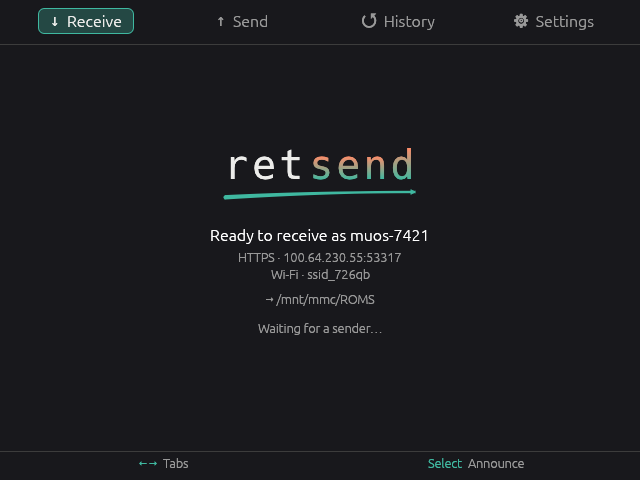
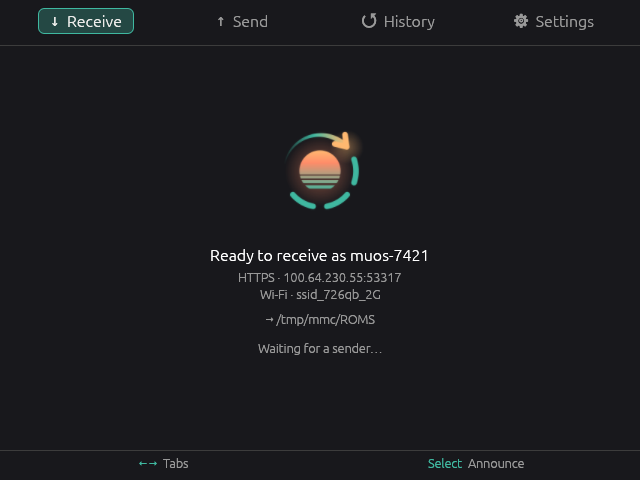
feat(ui): the brand mark as the landing hero

Changed region(s): [[0.3125, 0.4688, 0.6562, 0.75], [0.3438, 0.2812, 0.6562, 0.4375], [0.0, 0.9375, 1.0, 0.9688]]

diff --git a/src/ui/mark.rs b/src/ui/mark.rs
@@ -1,0 +1,65 @@
+//! The brand mark (the app icon without its plate) as the hero on the landing
+//! screens. The PNG is baked into the binary and uploaded to egui as a texture
+//! on first paint; the SVG master lives with the other brand assets.
+
+use egui_sdl2::egui;
+use std::sync::OnceLock;
+
+/// Hero height (logical px), shared by the Send, Receive and About screens.
+pub const HERO_SIZE: f32 = 96.0;
+
+static MARK_PNG: &[u8] = include_bytes!("../../resources/retsend-mark.png");
+
+/// Held for the app's lifetime so egui keeps the texture resident. `None`
+/// after a failed decode, so the hero silently drops out rather than retrying.
+static TEXTURE: OnceLock<Option<egui::TextureHandle>> = OnceLock::new();
+
+/// Size the mark occupies at `size`: a square.
+pub fn measure(size: f32) -> egui::Vec2 {
+    egui::vec2(size, size)
+}
+
+/// Paint the mark centered at `center`, faded to `alpha` (1.0 = full).
+pub fn paint(ui: &egui::Ui, center: egui::Pos2, size: f32, alpha: f32) {
+    let Some(tex) = TEXTURE.get_or_init(|| load(ui.ctx())) else {
+        return;
+    };
+    let rect = egui::Rect::from_center_size(center, measure(size));
+    let uv = egui::Rect::from_min_max(egui::pos2(0.0, 0.0), egui::pos2(1.0, 1.0));
+    let tint = egui::Color32::WHITE.linear_multiply(alpha);
+    ui.painter().image(tex.id(), rect, uv, tint);
+}
+
+fn load(ctx: &egui::Context) -> Option<egui::TextureHandle> {
+    let mut reader = match png::Decoder::new(std::io::Cursor::new(MARK_PNG)).read_info() {
+        Ok(r) => r,
+        Err(e) => {
+            log::warn!("brand mark: PNG header decode failed: {e}");
+            return None;
+        }
+    };
+    let mut buf = vec![0u8; reader.output_buffer_size()?];
+    let info = match reader.next_frame(&mut buf) {
+        Ok(i) => i,
+        Err(e) => {
+            log::warn!("brand mark: PNG decode failed: {e}");
+            return None;
+        }
+    };
+    if info.color_type != png::ColorType::Rgba || info.bit_depth != png::BitDepth::Eight {
+        log::warn!(
+            "brand mark: unexpected PNG format {:?}/{:?}",
+            info.color_type,
+            info.bit_depth
+        );
+        return None;
+    }
+    let size = [info.width as usize, info.height as usize];
+    let image = egui::ColorImage::from_rgba_unmultiplied(size, &buf[..info.buffer_size()]);
+    // Mipmapped: the 256px source is drawn at ~96 logical px.
+    let options = egui::TextureOptions {
+        mipmap_mode: Some(egui::TextureFilter::Linear),
+        ..egui::TextureOptions::LINEAR
+    };
+    Some(ctx.load_texture("brand-mark", image, options))
+}

diff --git a/src/ui/about.rs b/src/ui/about.rs
@@ -1,9 +1,9 @@
-//! The About screen: the wordmark hero over a small block of build metadata
+//! The About screen: the brand mark hero over a small block of build metadata
 //! (version, build date, commit), the project URL and author. Read-only — B
 //! backs out to Settings. All values are compile-time constants (`CARGO_PKG_*`
 //! plus the `RETSEND_*` vars stamped by `build.rs`), so nothing is threaded in.
 
-use super::{theme, wordmark};
+use super::{mark, theme};
 use crate::app::AppCommand;
 use egui_sdl2::egui;
 
@@ -28,12 +28,12 @@ pub fn render(root: &mut egui::Ui, taps: &mut Vec<AppCommand>) {
     });
 
     egui::CentralPanel::default().show(root, |ui| {
-        const HERO_H: f32 = 220.0; // wordmark + gaps + info block, roughly
+        const HERO_H: f32 = 256.0; // mark + gaps + info block, roughly
         let top = ((ui.available_height() - HERO_H) / 2.0).max(8.0);
         ui.vertical_centered(|ui| {
             ui.add_space(top);
-            let (_, rect) = ui.allocate_space(wordmark::measure(ui, wordmark::HERO_SIZE));
-            wordmark::paint(ui, rect.center(), wordmark::HERO_SIZE, 1.0);
+            let (_, rect) = ui.allocate_space(mark::measure(mark::HERO_SIZE));
+            mark::paint(ui, rect.center(), mark::HERO_SIZE, 1.0);
             ui.add_space(6.0);
             ui.label(
                 egui::RichText::new(env!("CARGO_PKG_DESCRIPTION"))

diff --git a/src/ui/receive.rs b/src/ui/receive.rs
@@ -1,9 +1,9 @@
-//! The Receive tab: the branded landing screen. The two-tone wordmark hero,
+//! The Receive tab: the branded landing screen. The brand mark hero,
 //! who we are on the network (IP + Wi-Fi), where files land, and a
 //! "ready / no network" status.
 //! Incoming requests still arrive as the Prompt modal on top of this.
 
-use super::{theme, wordmark};
+use super::{mark, theme};
 use crate::app::AppCommand;
 use egui_sdl2::egui;
 
@@ -40,12 +40,12 @@ pub fn render(root: &mut egui::Ui, data: &ReceiveData, taps: &mut Vec<AppCommand
     });
 
     egui::CentralPanel::default().show(root, |ui| {
-        const HERO_H: f32 = 214.0; // wordmark + gaps + status block, roughly
+        const HERO_H: f32 = 250.0; // mark + gaps + status block, roughly
         let top = ((ui.available_height() - HERO_H) / 2.0).max(8.0);
         ui.vertical_centered(|ui| {
             ui.add_space(top);
-            let (_, rect) = ui.allocate_space(wordmark::measure(ui, wordmark::HERO_SIZE));
-            wordmark::paint(ui, rect.center(), wordmark::HERO_SIZE, 1.0);
+            let (_, rect) = ui.allocate_space(mark::measure(mark::HERO_SIZE));
+            mark::paint(ui, rect.center(), mark::HERO_SIZE, 1.0);
             ui.add_space(24.0);
 
             let dim = |ui: &mut egui::Ui, text: String| {

diff --git a/src/ui/home.rs b/src/ui/home.rs
@@ -2,7 +2,7 @@
 //! The tab bar above it is drawn by `super::tabs`; our identity moved to the
 //! Receive tab.
 
-use super::{theme, wordmark};
+use super::{mark, theme};
 use crate::app::AppCommand;
 use egui_sdl2::egui;
 
@@ -51,12 +51,12 @@ pub fn render(root: &mut egui::Ui, data: &HomeData, taps: &mut Vec<AppCommand>) 
     egui::CentralPanel::default().show(root, |ui| {
         if data.peers.is_empty() {
             // Same branded hero as the Receive tab, with a discovery hint.
-            const HERO_H: f32 = 150.0; // wordmark + gap + hint, roughly
+            const HERO_H: f32 = 186.0; // mark + gap + hint, roughly
             let top = ((ui.available_height() - HERO_H) / 2.0).max(8.0);
             ui.vertical_centered(|ui| {
                 ui.add_space(top);
-                let (_, rect) = ui.allocate_space(wordmark::measure(ui, wordmark::HERO_SIZE));
-                wordmark::paint(ui, rect.center(), wordmark::HERO_SIZE, 1.0);
+                let (_, rect) = ui.allocate_space(mark::measure(mark::HERO_SIZE));
+                mark::paint(ui, rect.center(), mark::HERO_SIZE, 1.0);
                 ui.add_space(24.0);
                 ui.label(
                     egui::RichText::new("Open LocalSend on your phone or PC\non the same network.")

diff --git a/src/ui/mod.rs b/src/ui/mod.rs
@@ -5,6 +5,7 @@ mod about;
 mod browser;
 mod history;
 mod home;
+mod mark;
 mod osk;
 mod prompt;
 mod receive;
@@ -13,7 +14,6 @@ mod settings;
 mod tabs;
 pub mod theme;
 mod transfer;
-mod wordmark;
 
 use crate::app::AppCommand;
 use crate::config::AppConfig;
